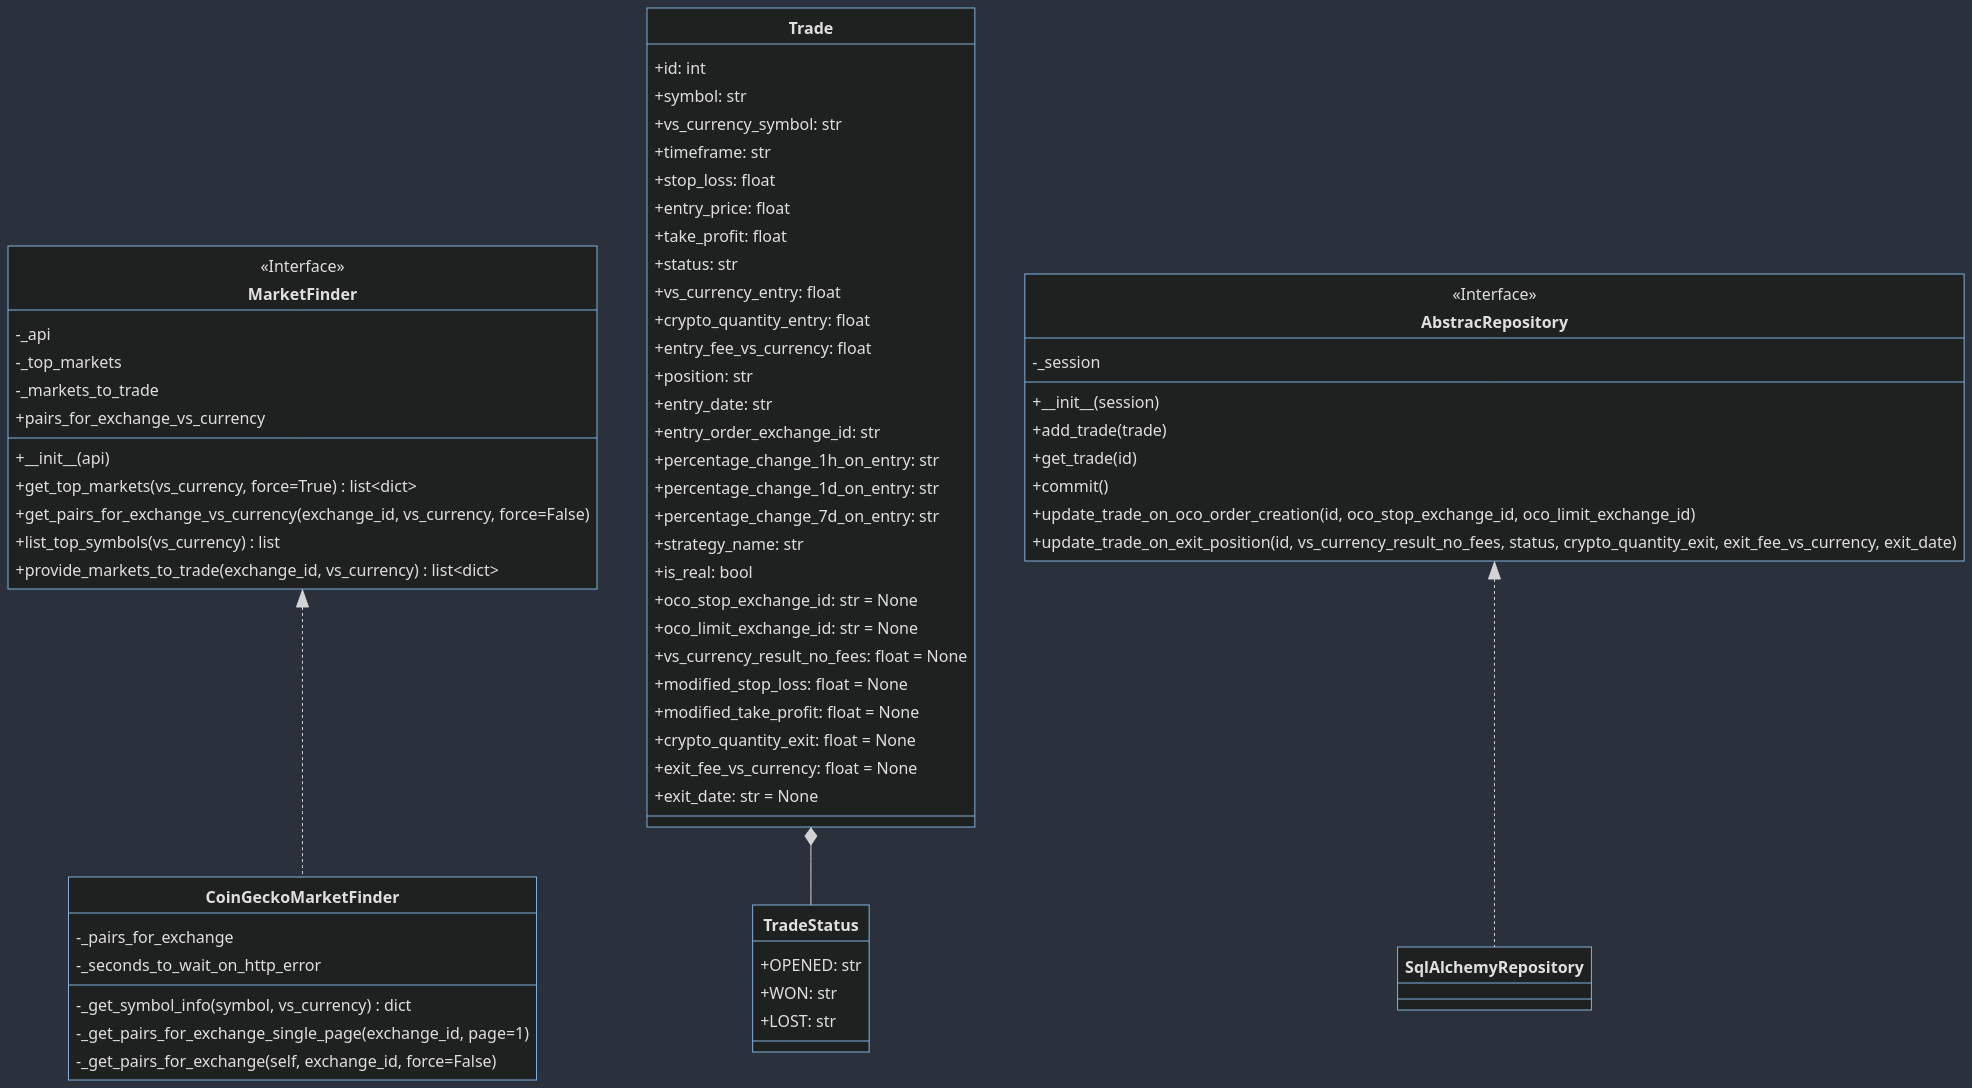
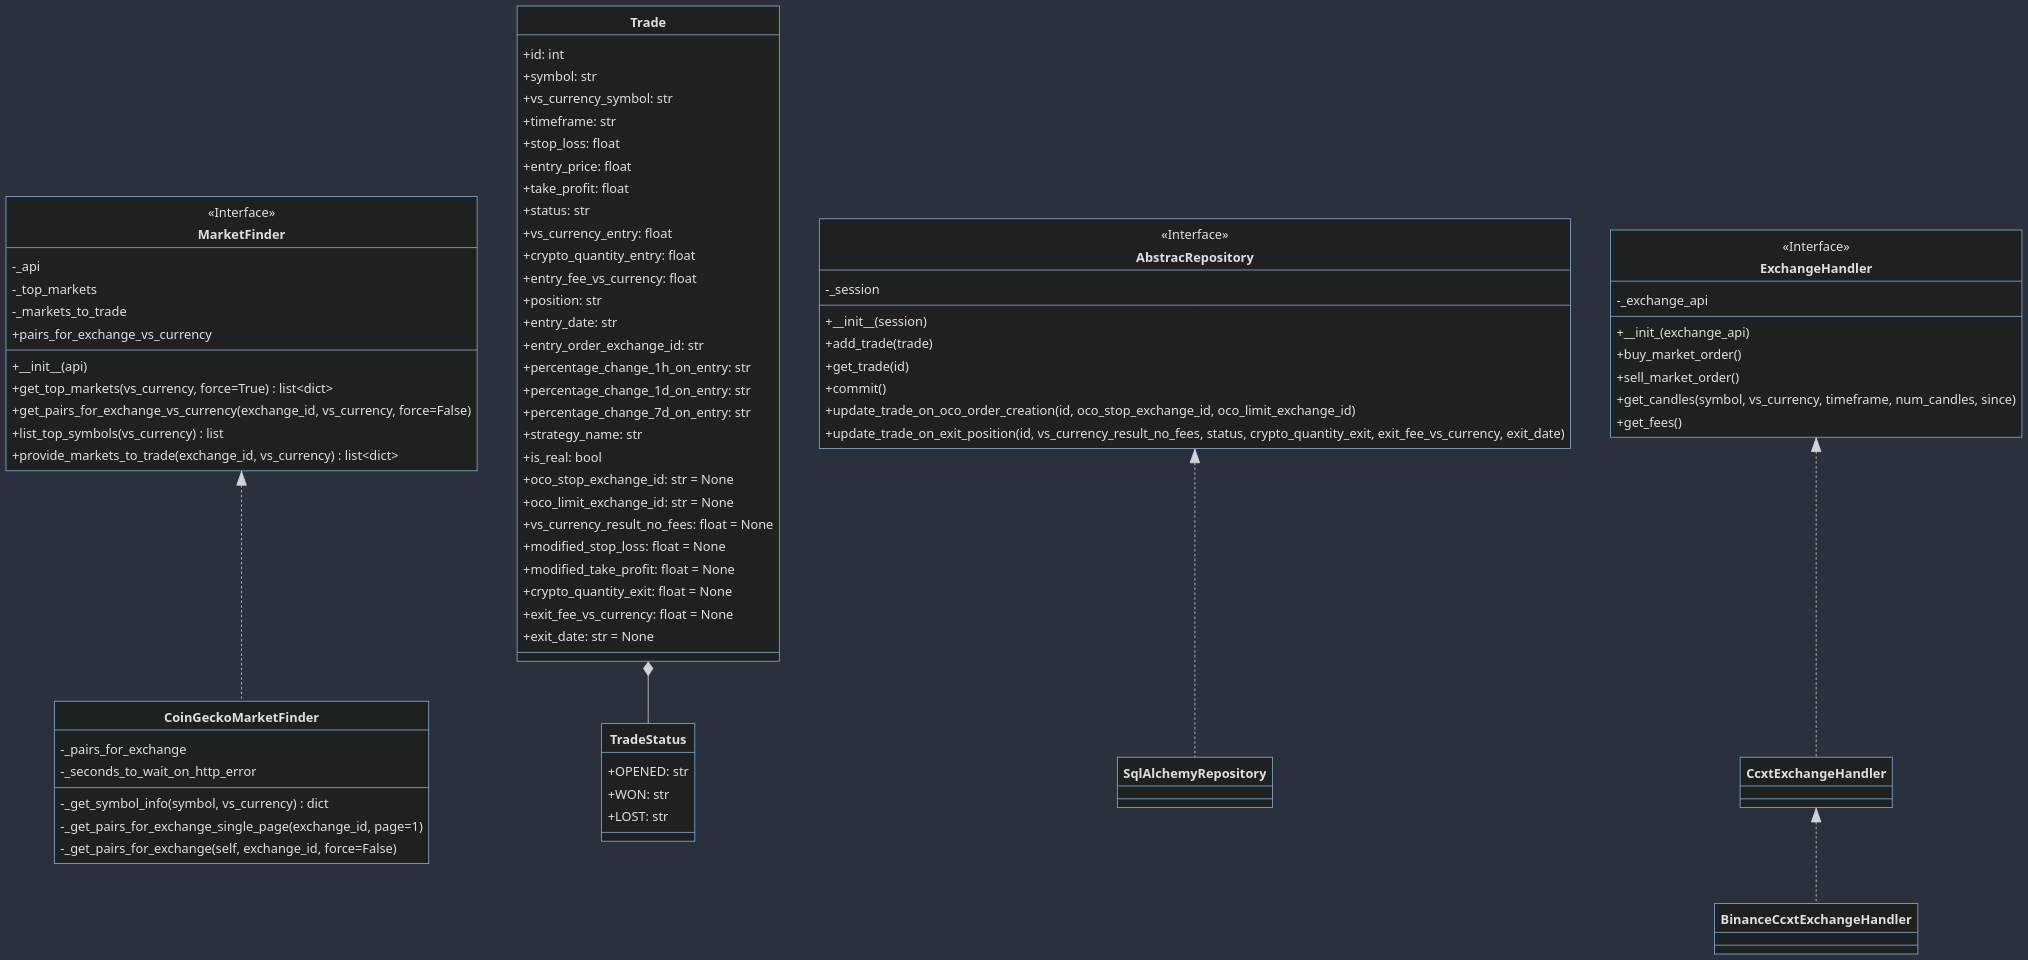
Started to implement exchange handlers.

diff --git a/src/exchangehandler.py b/src/exchangehandler.py
@@ -1,0 +1,61 @@
+from abc import ABC, abstractmethod
+
+import ccxt
+
+
+class ExchangeHandler(ABC):
+    def __init__(self, exchange_api):
+        self._exchange_api = exchange_api
+
+    @abstractmethod
+    def buy_market_order(self):
+        raise NotImplementedError
+
+    @abstractmethod
+    def sell_market_order(self):
+        raise NotImplementedError
+
+    @abstractmethod
+    def get_candles(self, symbol, vs_currency, timeframe, num_candles,
+                    since=None):
+        raise NotImplementedError
+
+    @abstractmethod
+    def get_fees(self):
+        raise NotImplementedError
+
+
+class CcxtExchangeHandler(ExchangeHandler):
+    def __init__(self, exchange_api: ccxt.Exchange):
+        if not isinstance(exchange_api, ccxt.Exchange):
+            raise TypeError("Error exchange_api should be of type ccxt.Exchange")
+
+        super().__init__(exchange_api)
+
+    def buy_market_order(self):
+        pass
+
+    def sell_market_order(self):
+        pass
+
+    def get_candles(self, symbol, vs_currency, timeframe, num_candles,
+                    since=None):
+        pass
+
+    def get_fees(self):
+        pass
+
+
+class BinanceCcxtExchangeHandler(CcxtExchangeHandler):
+    def buy_market_order(self):
+        pass
+
+    def sell_market_order(self):
+        pass
+
+    def get_candles(self, symbol, vs_currency, timeframe, num_candles,
+                    since=None):
+        pass
+
+    def get_fees(self):
+        pass

diff --git a/tests/test_exchangehandler.py b/tests/test_exchangehandler.py
@@ -1,0 +1,34 @@
+import pytest
+
+import ccxt
+
+import exchangehandler as eh
+
+
+@pytest.fixture
+def binance_eh_no_keys():
+    return eh.BinanceCcxtExchangeHandler(ccxt.binance())
+
+
+def test_ccxt_exchange_handler_raises_exception_on_init_with_wrong_api():
+    with pytest.raises(TypeError) as e:
+        eh.CcxtExchangeHandler(exchange_api="")
+
+
+def test_ccxt_exchange_handler_not_raises_exception_on_init_with_right_api():
+    try:
+        eh.CcxtExchangeHandler(exchange_api=ccxt.Exchange())
+    except TypeError:
+        pytest.fail()
+
+    try:
+        eh.CcxtExchangeHandler(exchange_api=ccxt.binance())
+    except TypeError:
+        pytest.fail()
+
+
+def test_binance_ccxt_exchange_handler_gets_candles(binance_eh_no_keys):
+    # TODO añadir el parámetro since
+    candles = binance_eh_no_keys.get_candles(symbol='BTC', vs_currency='EUR',
+                                             timeframe='1h', num_candles='200')
+
